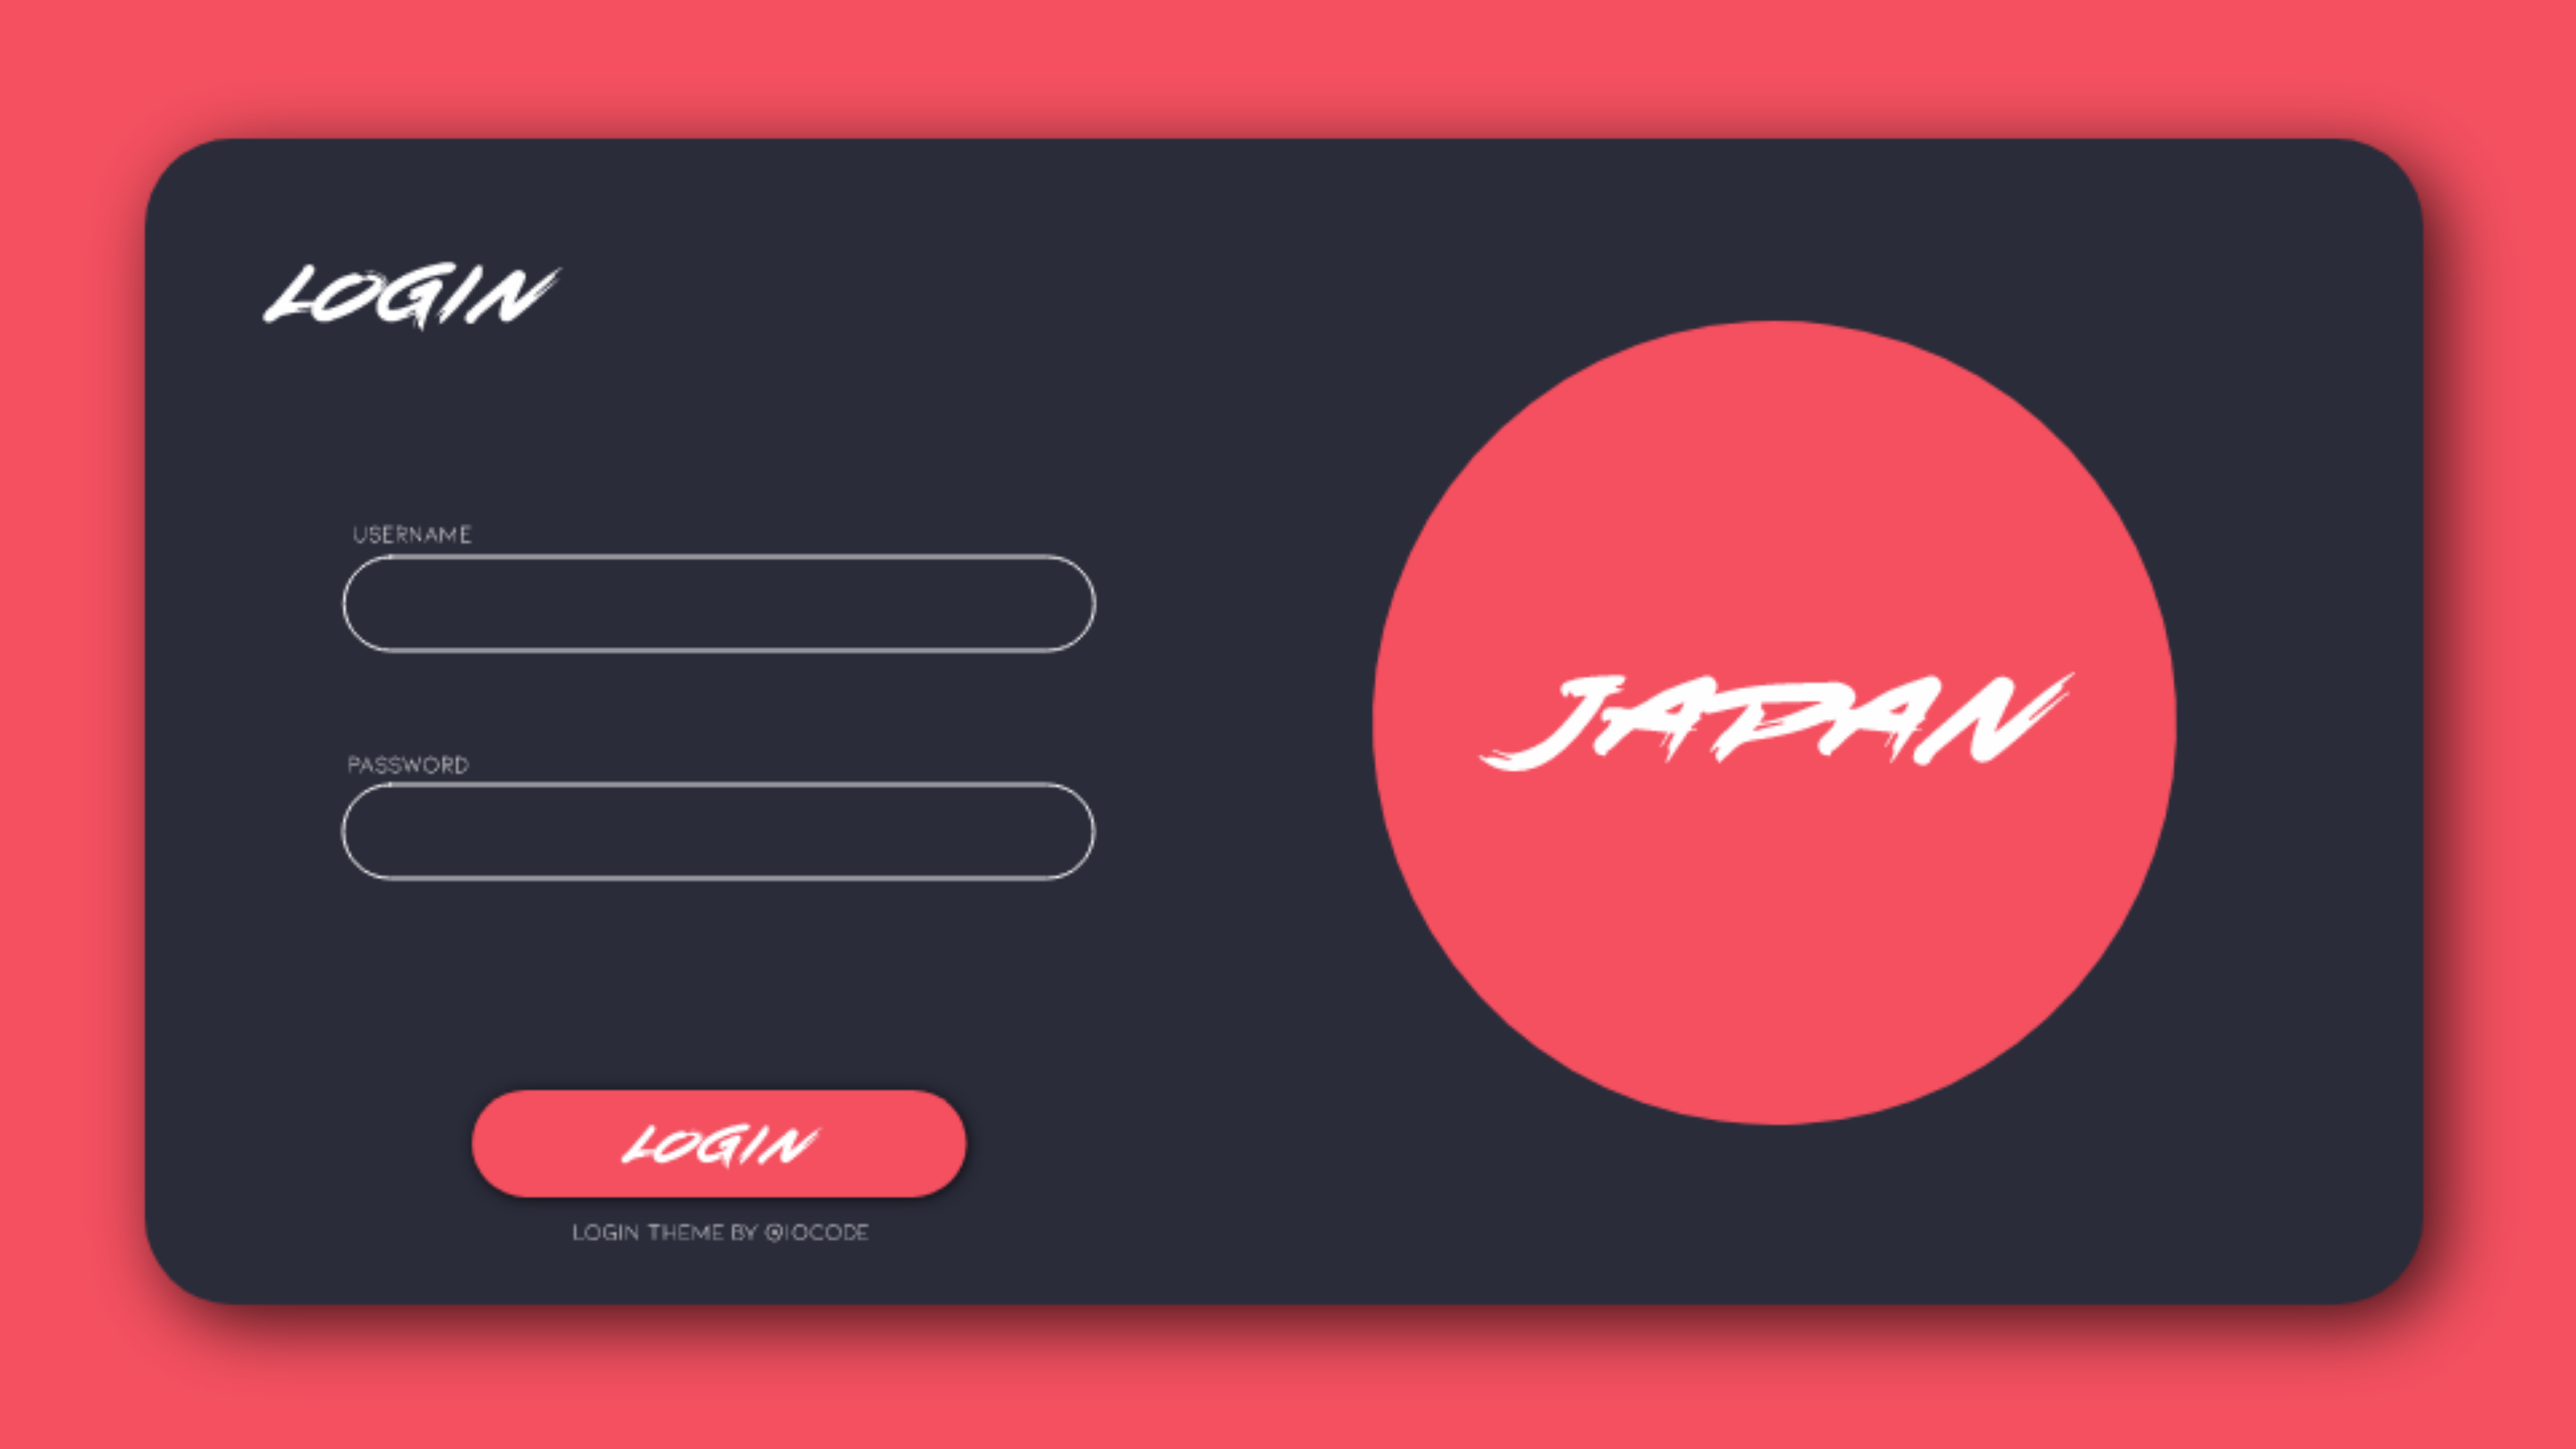
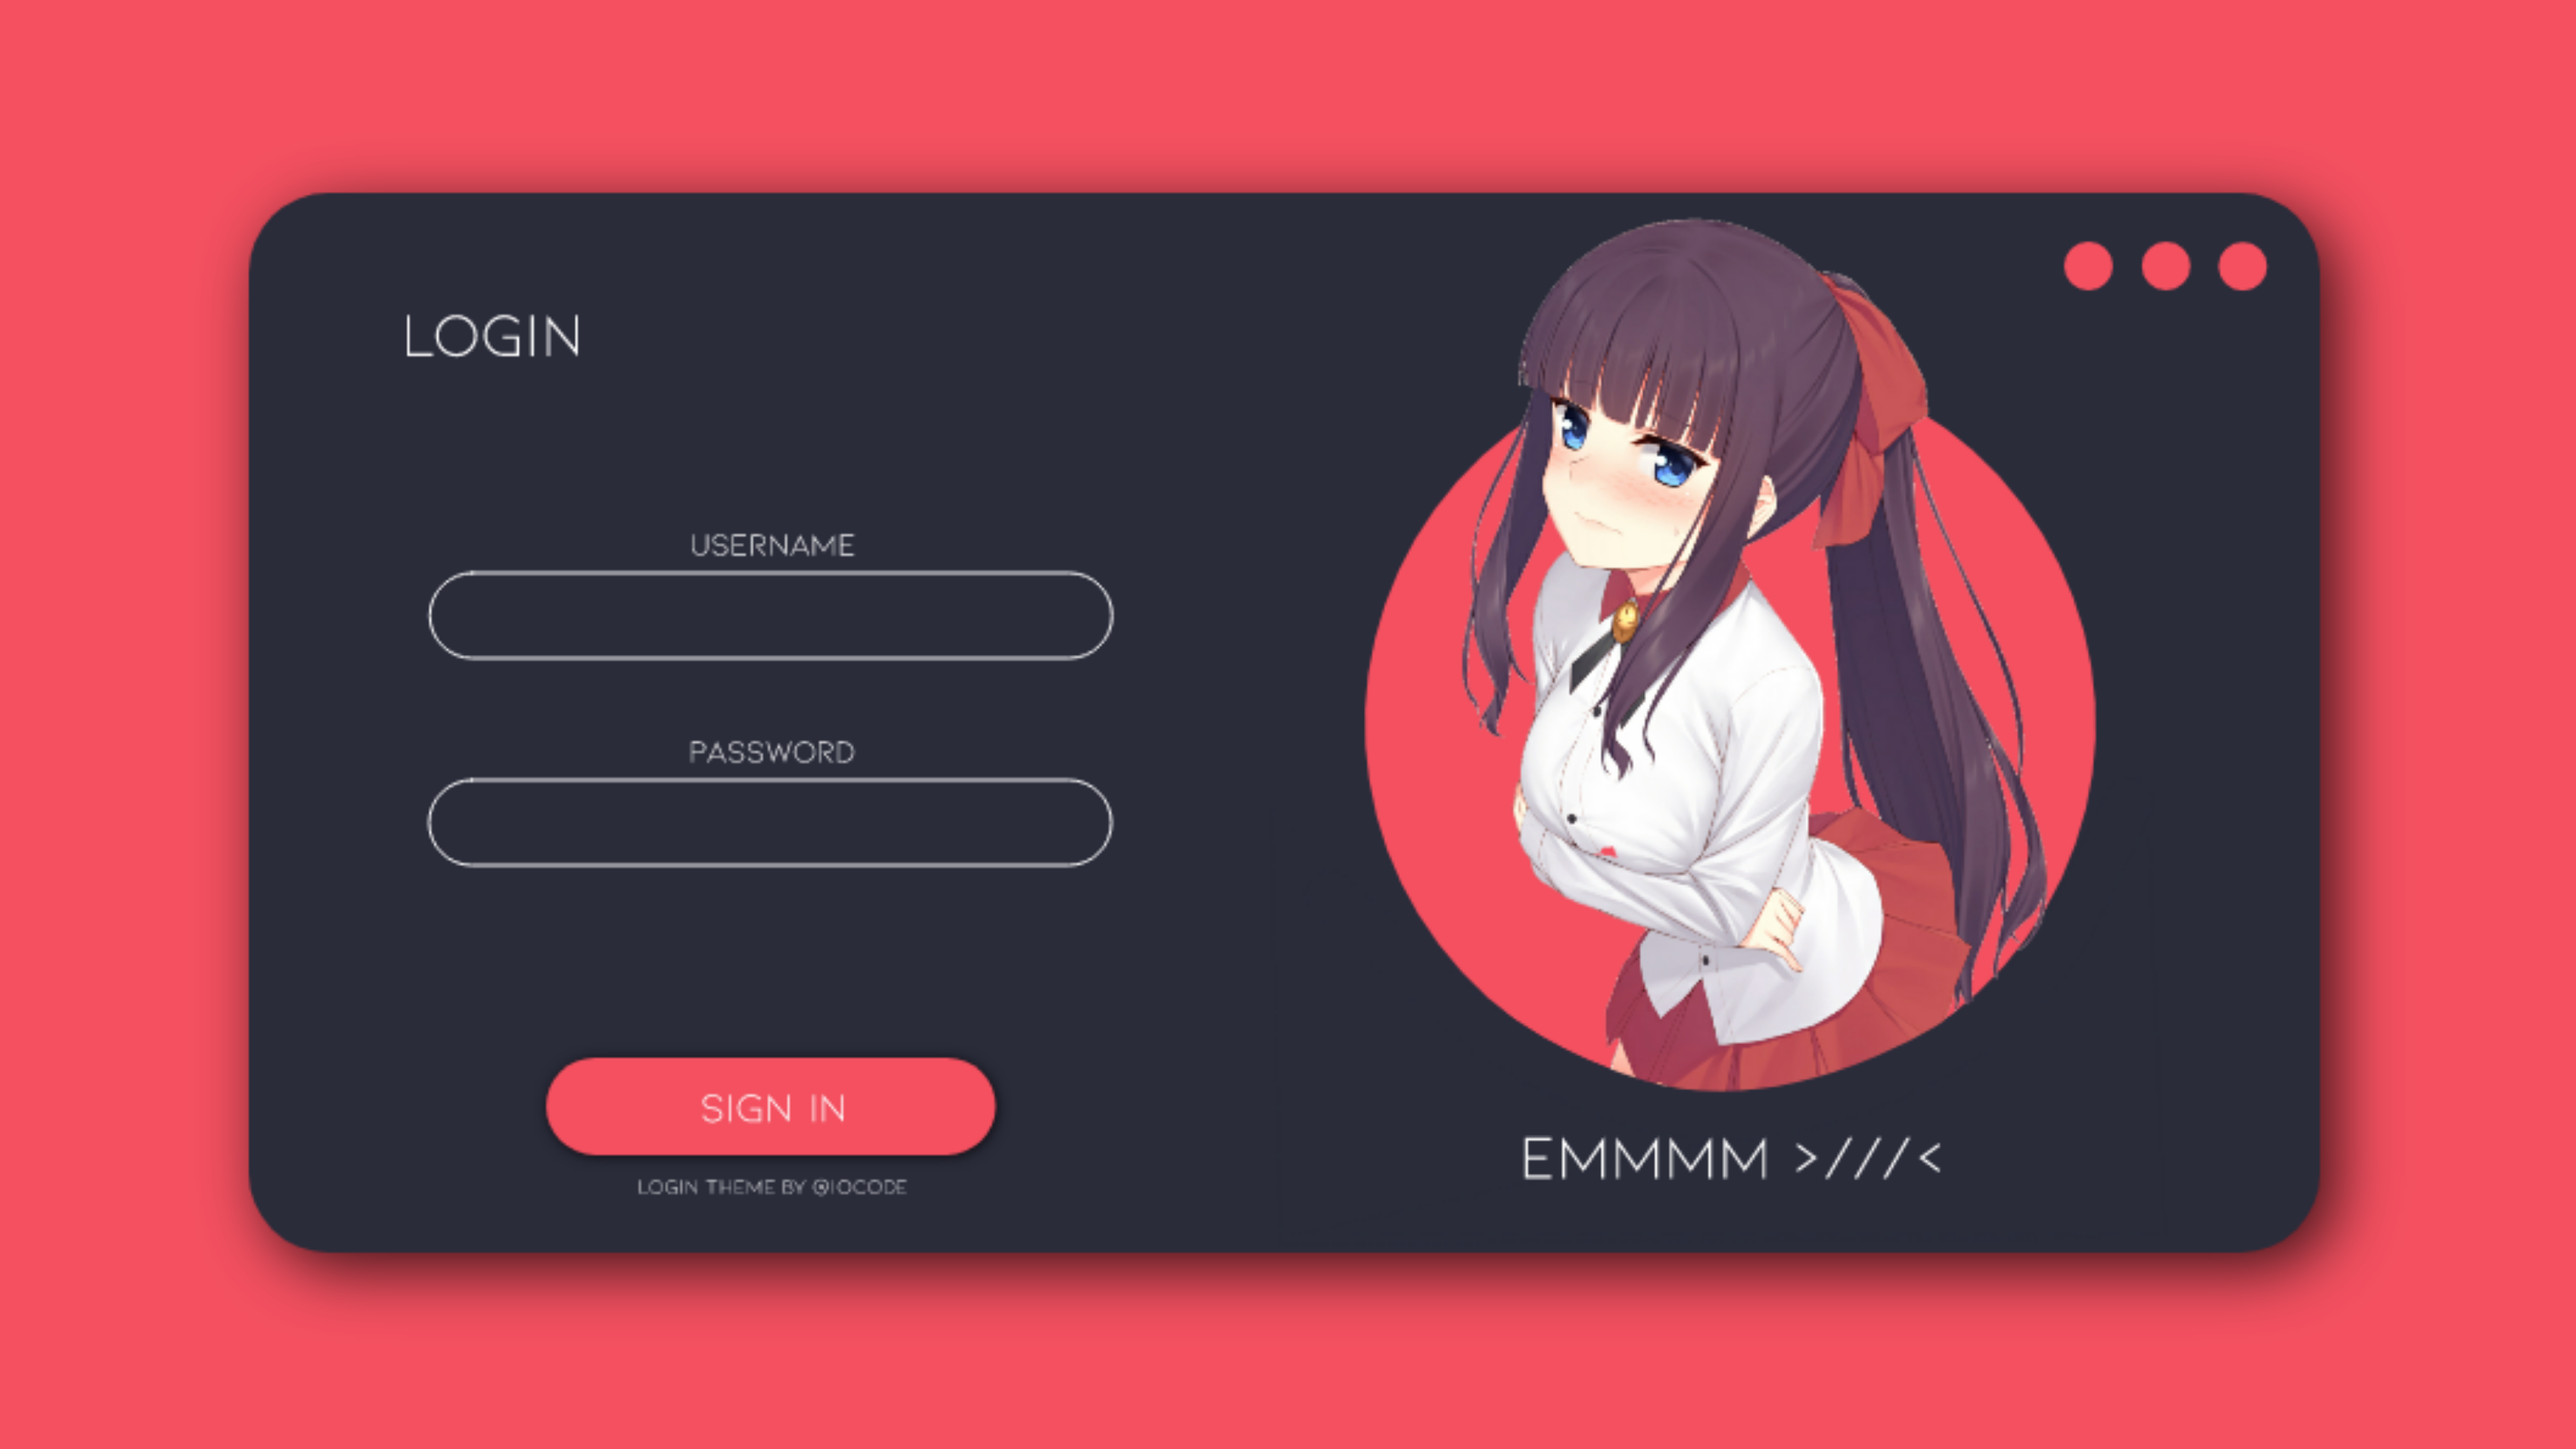
some update

diff --git a/README.md b/README.md
@@ -113,7 +113,7 @@ $ bash ~/.scripts/wallset
 ```
 
 ------------------------------
-<b><p align="center">Slim Themes Ark-japan</p></b>
+<b><p align="center">Slim Themes Ark-Hifumi</p></b>
 <p align="center">In fact, I use SLiM for default lockscreen.</p>
 <p align="center"><a href="https://drive.google.com/drive/folders/1_Ktq9kGqDi0TNC8Q49AWpLo2HvWkPhnQ?usp=sharing">
 <img src="https://github.com/vcyzteen/Mydotfiles/blob/master/images/slim.png" alt="Ark-red" align="center"/></a></p>
@@ -128,7 +128,7 @@ $ bash ~/.scripts/wallset
     Extract .zip files and copy folder extracted to /usr/share/slim/themes/
     Then edit the /etc/slim.conf file using text editor. Adjust, for example as follows:
 
-    current_theme Ark-japan
+    current_theme Ark-Hifumi
 
 > and if you want use lock screen as default
 
